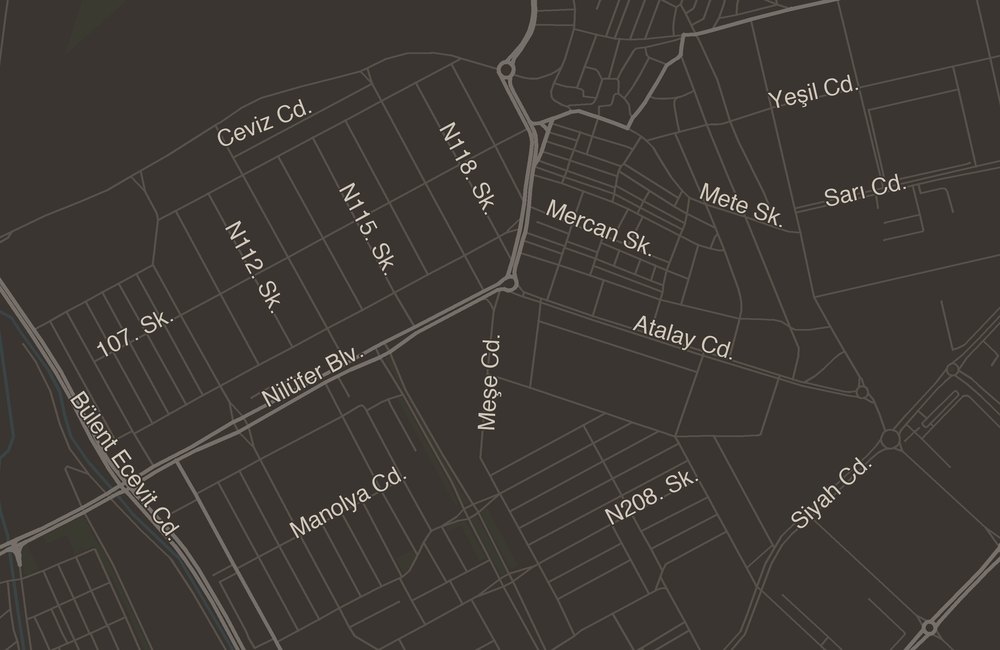
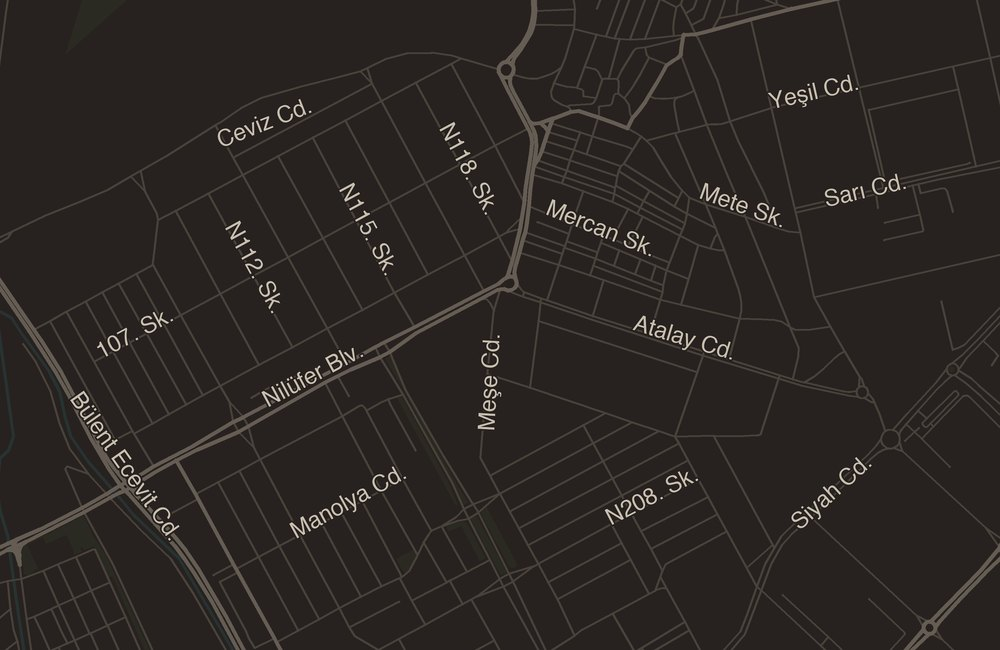
One surface colour for the form fields, the contact map and the footer
The message box (#27221F, a 6% ivory tint over the contact brown), the
footer (the theme's ink, #241D18) and the map (#3A3531) were three
different darks. They now share --panel, #27221F: the fields and the
footer use it directly, and the map is redrawn on that ground with roads
and names adjusted to stay readable. The ink colour itself is unchanged,
so text on the light sections is unaffected.

Changed region(s): [[0.992, 0.8615, 1.0, 0.8923], [0.899, 0.9846, 0.93, 1.0]]

diff --git a/src/index.css b/src/index.css
@@ -4,6 +4,8 @@
 :root{
  --ivory:#F3EEE4;--brown:#1A1512;--ink:#241d18;--parchment:#E7DFCF;--taupe:#C9BDAA;
  --gold:#83704B;--gold-hover:#6B5C3E;--gold-light:#B7A47A;
+ /* Form fields, the contact map and the footer share this one dark surface. */
+ --panel:#27221F;
  --serif:"Times New Roman","Tinos",Times,serif;
  --label:"Helvetica Neue",Arial,sans-serif;
  --maxw:1360px;--gutter:clamp(24px,4vw,60px);--section:clamp(56px,5.5vw,104px);
@@ -153,7 +155,7 @@ nav a:hover::after,nav a:focus-visible::after{width:100%}
 .seg.active{background:var(--gold);color:#fff}
 .c-form label{display:block;font-family:var(--label);font-size:11px;letter-spacing:.18em;text-transform:uppercase;color:var(--taupe);margin:0 0 7px}
 .c-form .row2{display:grid;grid-template-columns:1fr 1fr;gap:18px}
-.c-form input,.c-form textarea{width:100%;background:rgba(243,238,228,.06);border:1px solid rgba(243,238,228,.22);
+.c-form input,.c-form textarea{width:100%;background:var(--panel);border:1px solid rgba(243,238,228,.22);
  color:var(--ivory);font-family:var(--serif);font-size:16px;padding:12px 14px;margin-bottom:18px;border-radius:2px}
 .c-form textarea{min-height:120px;resize:vertical}
 .c-form input:focus,.c-form textarea:focus{outline:none;border-color:var(--gold)}
@@ -166,7 +168,7 @@ nav a:hover::after,nav a:focus-visible::after{width:100%}
 /* Map fills the column's spare height; the 28px bottom margin is the form's status line under the
    Send button, so the map's lower edge sits level with the button. */
 .c-map{position:relative;flex:1 1 auto;min-height:200px;margin:32px 0 28px;overflow:hidden;
- border:1px solid rgba(201,189,170,.16);background:#211a16}
+ border:1px solid rgba(201,189,170,.16);background:var(--panel)}
 .c-map-link{position:absolute;inset:0;display:block}
 .c-map picture,.c-map img{display:block;width:100%;height:100%}
 .c-map img{object-fit:cover;transition:transform .6s ease}
@@ -207,7 +209,7 @@ nav a:hover::after,nav a:focus-visible::after{width:100%}
  padding-top:18px;border-top:1px solid rgba(201,189,170,.18);max-width:46ch}
 
 /* footer */
-footer{background:var(--ink);color:var(--ivory);padding:54px 0;text-align:center}
+footer{background:var(--panel);color:var(--ivory);padding:54px 0;text-align:center}
 footer .logo-svg{width:128px;margin:0 auto 22px}
 .footnav{display:flex;justify-content:center;gap:14px;flex-wrap:wrap;font-family:var(--label);
  font-size:12px;letter-spacing:.18em;text-transform:uppercase;margin-bottom:20px}

diff --git a/scripts/render-map.py b/scripts/render-map.py
@@ -24,8 +24,9 @@ M_PER_PX = 2.7                       # metres per output pixel
 BG, BUILDING, GREEN, WATER = '#211a16', '#2d251f', '#24221a', '#26302f'
 MINOR, MAJOR, MESE = '#4b4137', '#6f6353', '#b7a47a'
 if GOOGLE:
-    BG, BUILDING, GREEN, WATER = '#3a3531', None, '#3b3a31', '#3a4446'
-    MINOR, MAJOR, MESE = '#57514a', '#77706a', '#c9b27c'
+    # Ground matches the contact form's fields and the footer (#27221F).
+    BG, BUILDING, GREEN, WATER = '#27221f', None, '#2b2a22', '#283233'
+    MINOR, MAJOR, MESE = '#48423b', '#655d54', '#c9b27c'
 MAJOR_T = {'motorway', 'trunk', 'primary', 'secondary', 'motorway_link', 'trunk_link',
            'primary_link', 'secondary_link'}
 MINOR_T = {'tertiary', 'tertiary_link', 'residential', 'unclassified', 'service', 'living_street'}
@@ -129,7 +130,7 @@ if LABELS:
         order = sorted(names, key=lambda n: min(rank[e['tags']['highway']] for e in els
                                                  if e.get('tags', {}).get('name') == n and e['tags'].get('highway') in rank))
         for name in order:
-            label(name, names[name], '#cfc6b8')
+            label(name, names[name], '#c7beaf')
     else:
         for name in ('Nilüfer Bulvarı', 'Bülent Ecevit Caddesi', 'Atatürk Bulvarı', 'Siyah Cadde'):
             label(name, by_name.get(name, []), '#9a8e7c')
